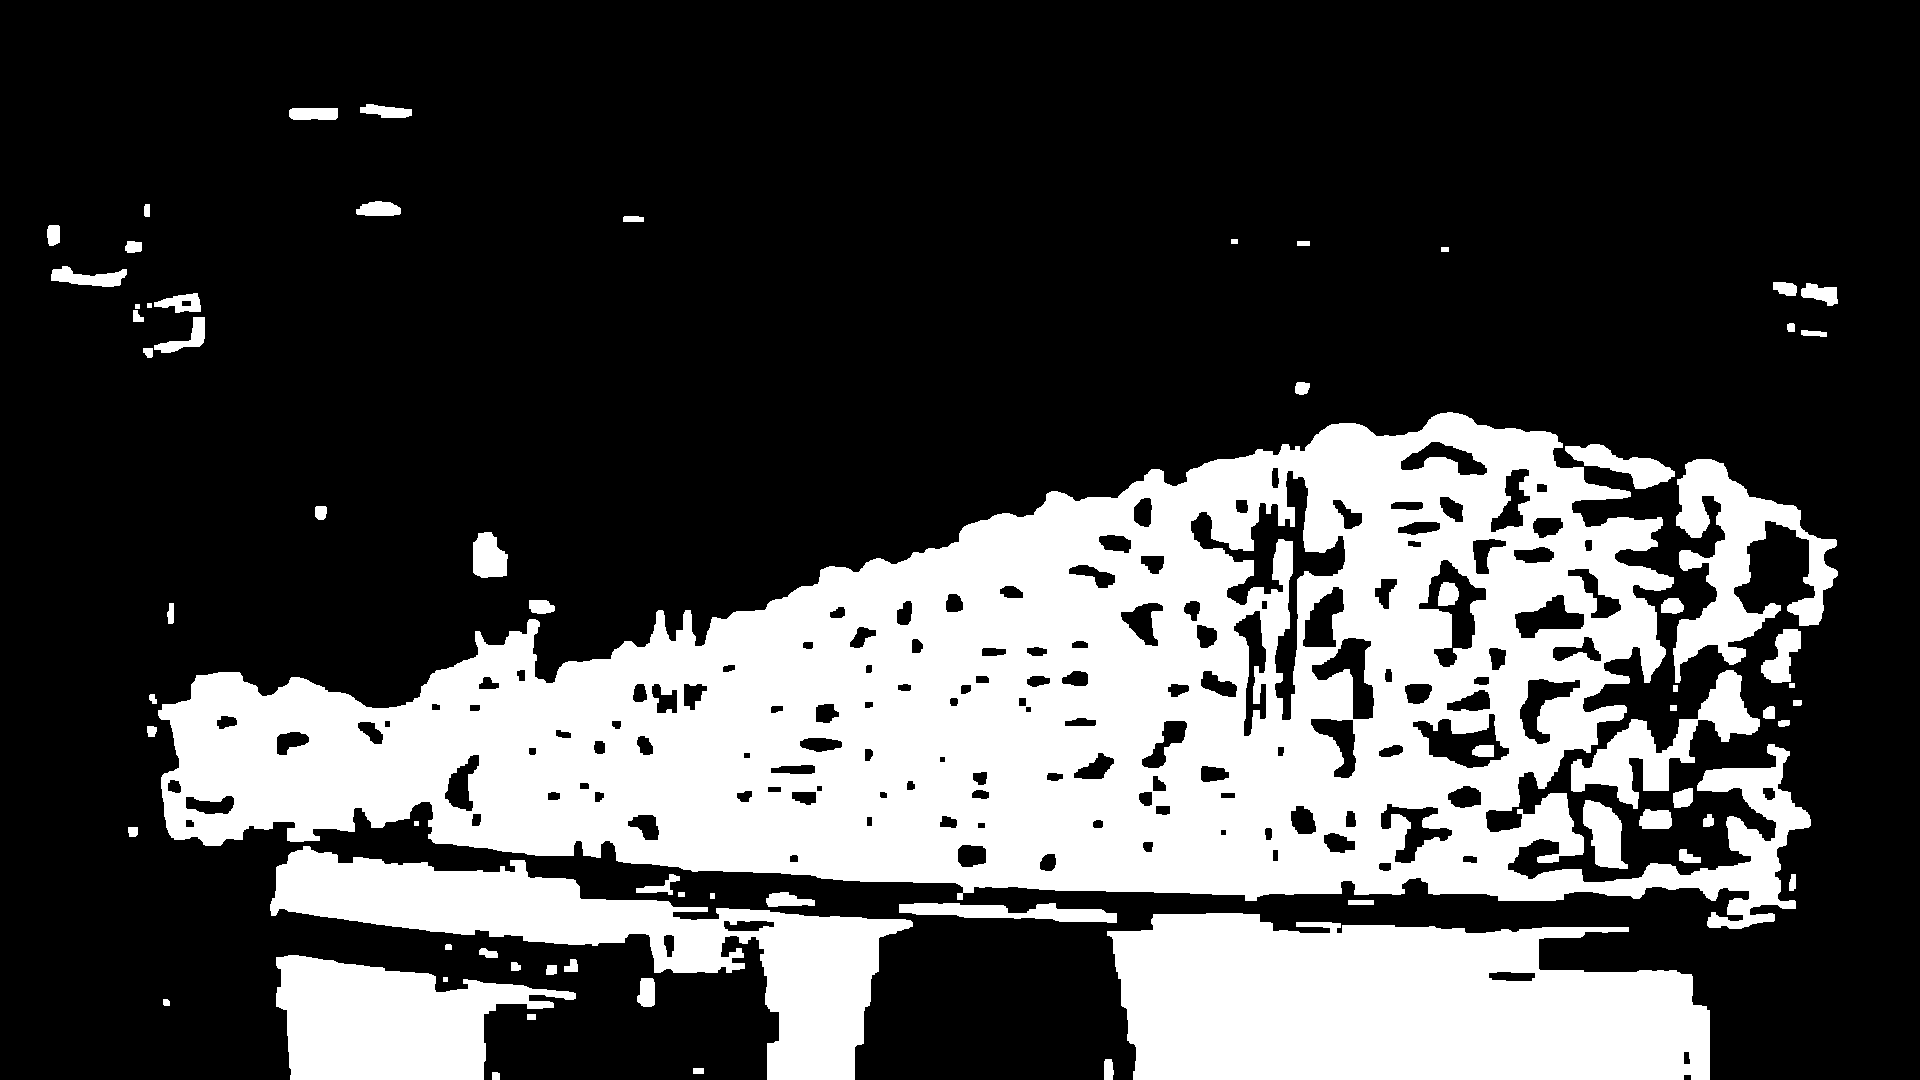
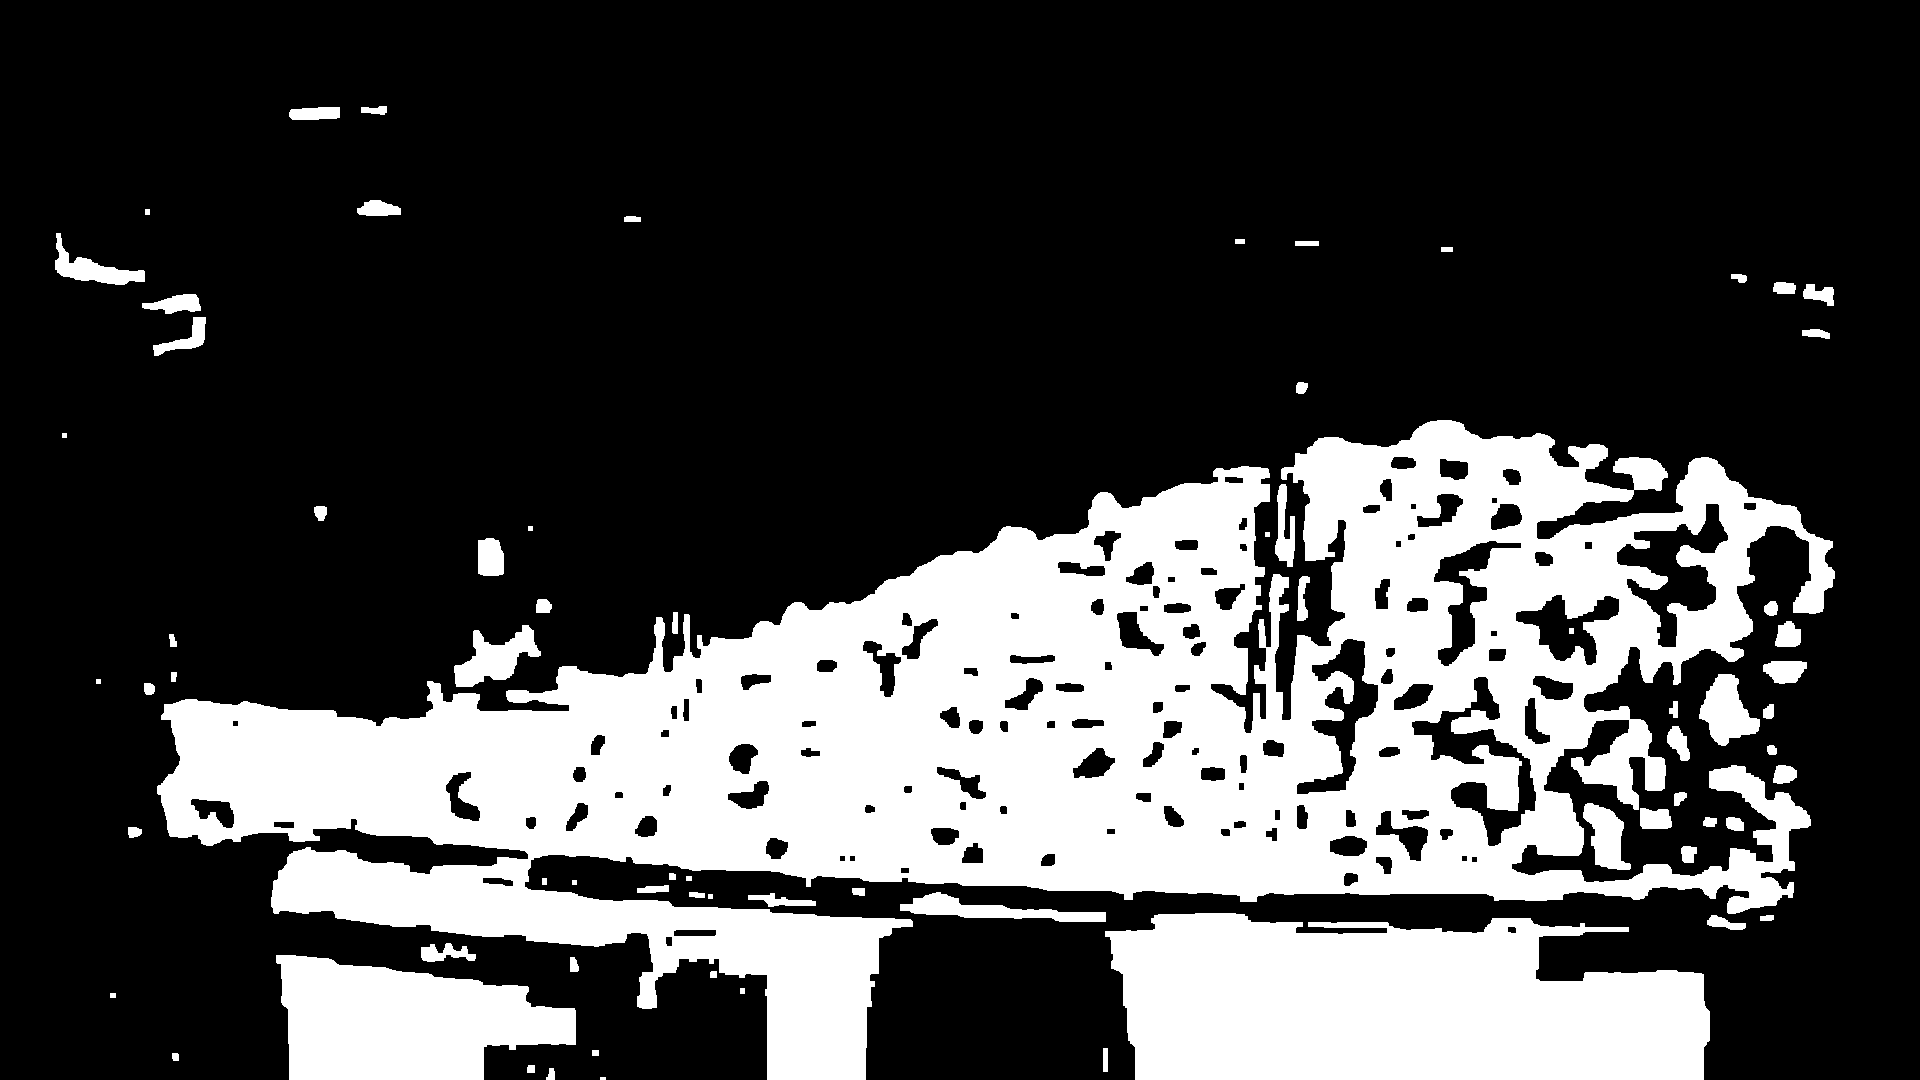
cup-placement-final

diff --git a/services/scheduler/app.py b/services/scheduler/app.py
@@ -67,6 +67,7 @@ class SchedulerService:
         logger.info("🔧 [SCHEDULER] Registering RabbitMQ message handlers...")
         self.rabbitmq_client.register_handler("process_order", self.handle_process_order)
         self.rabbitmq_client.register_handler("feedback", self.handle_feedback)
+        self.rabbitmq_client.register_handler("update_cup_position", self.handle_update_cup_position)
         self.rabbitmq_client.register_handler("get_status", self.handle_get_status)
         self.rabbitmq_client.register_handler("subscribe_status", self.handle_subscribe_status)
         self.rabbitmq_client.register_handler("health", self.handle_health)
@@ -239,6 +240,46 @@ class SchedulerService:
             raise  # This will trigger service restart
         except Exception as e:
             logger.error(f"[SCHEDULER] Feedback handler error: {e}")
+            return {"success": False, "error": str(e)}
+    
+    async def handle_update_cup_position(self, data: Dict) -> Dict:
+        """Handle cup position update from routine service (after cup_detection)."""
+        try:
+            cup_id = data.get("cup_id")
+            new_position = data.get("new_position")
+            old_position = data.get("old_position")
+            
+            logger.info(f"[SCHEDULER] 📍 Received position update for {cup_id}: {old_position} → {new_position}")
+            
+            if not cup_id or new_position is None:
+                logger.error(f"[SCHEDULER] Missing cup_id or new_position in update request")
+                return {"success": False, "error": "Missing required parameters"}
+            
+            # Update position in scheduler's internal data structures
+            updated = await scheduler.update_cup_position(cup_id, float(new_position))
+            
+            if updated:
+                logger.info(f"[SCHEDULER] ✅ Successfully updated position for {cup_id} to {new_position}")
+                logger.info(f"[SCHEDULER] 🎯 All future tasks for {cup_id} will use position {new_position}")
+                
+                # Send event to notify about position update
+                try:
+                    await self.rabbitmq_client.send_event("scheduler.cup_position_updated", {
+                        "cup_id": cup_id,
+                        "new_position": new_position,
+                        "old_position": old_position,
+                        "timestamp": datetime.now().isoformat()
+                    })
+                except Exception as e:
+                    logger.warning(f"Failed to send position update event: {e}")
+                
+                return {"success": True, "message": f"Position updated to {new_position}"}
+            else:
+                logger.warning(f"[SCHEDULER] ⚠ Could not update position for {cup_id} (cup not found in active orders)")
+                return {"success": False, "error": f"Cup {cup_id} not found in active orders"}
+            
+        except Exception as e:
+            logger.error(f"[SCHEDULER] Error updating cup position: {e}")
             return {"success": False, "error": str(e)}
     
     async def handle_get_status(self, data: Dict) -> Dict:

diff --git a/services/scheduler/scheduler.py b/services/scheduler/scheduler.py
@@ -730,6 +730,61 @@ def get_current_status():
     """Get the current processing status."""
     return current_status
 
+async def update_cup_position(cup_id: str, new_position: float) -> bool:
+    """
+    Update the cup position for all pending tasks of a given cup.
+    Called when cup_detection finds a better position.
+    
+    Args:
+        cup_id: The cup ID to update
+        new_position: The new cup position (1-4)
+    
+    Returns:
+        True if update successful, False if cup not found
+    """
+    global cup_data_by_cup, tasks
+    
+    logger.info(f"[SCHEDULER] 🔄 Updating cup position for {cup_id} to {new_position}")
+    
+    with lock:
+        # Update in cup_data_by_cup (master data for this cup)
+        if cup_id not in cup_data_by_cup:
+            logger.warning(f"[SCHEDULER] Cup {cup_id} not found in cup_data_by_cup")
+            return False
+        
+        cup_data = cup_data_by_cup[cup_id]
+        
+        # Update position in ingredients
+        if "ingredients" in cup_data:
+            if "position" in cup_data["ingredients"]:
+                old_position = cup_data["ingredients"]["position"].get("cup_position")
+                cup_data["ingredients"]["position"]["cup_position"] = new_position
+                logger.info(f"[SCHEDULER] Updated cup_data_by_cup[{cup_id}]['ingredients']['position']['cup_position']: {old_position} → {new_position}")
+            else:
+                # Create position dict if it doesn't exist
+                cup_data["ingredients"]["position"] = {"cup_position": new_position}
+                logger.info(f"[SCHEDULER] Created position entry in cup_data_by_cup[{cup_id}]")
+        else:
+            logger.warning(f"[SCHEDULER] No ingredients found in cup_data for {cup_id}")
+        
+        # Update all pending tasks for this cup
+        updated_task_count = 0
+        for task in tasks:
+            if task["cup"] == cup_id and task["status"] == "pending":
+                # Update position in task's item data
+                if "item" in task and "ingredients" in task["item"]:
+                    if "position" in task["item"]["ingredients"]:
+                        task["item"]["ingredients"]["position"]["cup_position"] = new_position
+                        updated_task_count += 1
+                    else:
+                        task["item"]["ingredients"]["position"] = {"cup_position": new_position}
+                        updated_task_count += 1
+        
+        logger.info(f"[SCHEDULER] ✅ Updated {updated_task_count} pending tasks for {cup_id}")
+        logger.info(f"[SCHEDULER] 🎯 Future tasks for {cup_id} will use position {new_position}")
+        
+        return True
+
 async def handle_routine_feedback(cup_id: str, action: str, success: bool):
     """
     Handle feedback from the routine service about task completion.

diff --git a/services/routine/executer.py b/services/routine/executer.py
@@ -138,7 +138,7 @@ def find_nearest_available_position(current_position: int, detection_result: dic
     Returns:
         The nearest available position number
     """
-     Ensure current_position is an integer
+    # Ensure current_position is an integer
     current_position = int(current_position)
     
     # Get all available positions (False values) and ensure they're integers
@@ -367,6 +367,28 @@ async def process_task(arm_id: int, task, configs: dict, rabbitmq_client: Rabbit
                                 logger.info(f"📦 Updated task_item['ingredients']: {task_item['ingredients']}")
                                 logger.info(f"🔗 Ingredients reference updated - changes will persist to next step")
                                 logger.info(f"📦 Current params after update: {params}")
+                                
+                                # CRITICAL: Notify scheduler about position change so ALL future tasks use updated position
+                                try:
+                                    logger.info(f"📢 Notifying scheduler about position change for cup {cup_id}: {current_position} → {new_position}")
+                                    position_update_response = await rabbitmq_client.send_request(
+                                        target_service="scheduler",
+                                        action="update_cup_position",
+                                        data={
+                                            "cup_id": cup_id,
+                                            "new_position": float(new_position),
+                                            "old_position": float(current_position),
+                                            "timestamp": datetime.now().isoformat()
+                                        },
+                                        timeout=5
+                                    )
+                                    if position_update_response and position_update_response.get("success"):
+                                        logger.info(f"✅ Scheduler acknowledged position update for cup {cup_id}")
+                                    else:
+                                        logger.warning(f"⚠ Scheduler did not acknowledge position update: {position_update_response}")
+                                except Exception as e:
+                                    logger.error(f"❌ Failed to notify scheduler about position change: {e}")
+                                    logger.warning(f"⚠ Position change applied locally but may not persist to future tasks")
                             else:
                                 logger.info(f"✓ Cup position {current_position} is available, no change needed")
                         else:
